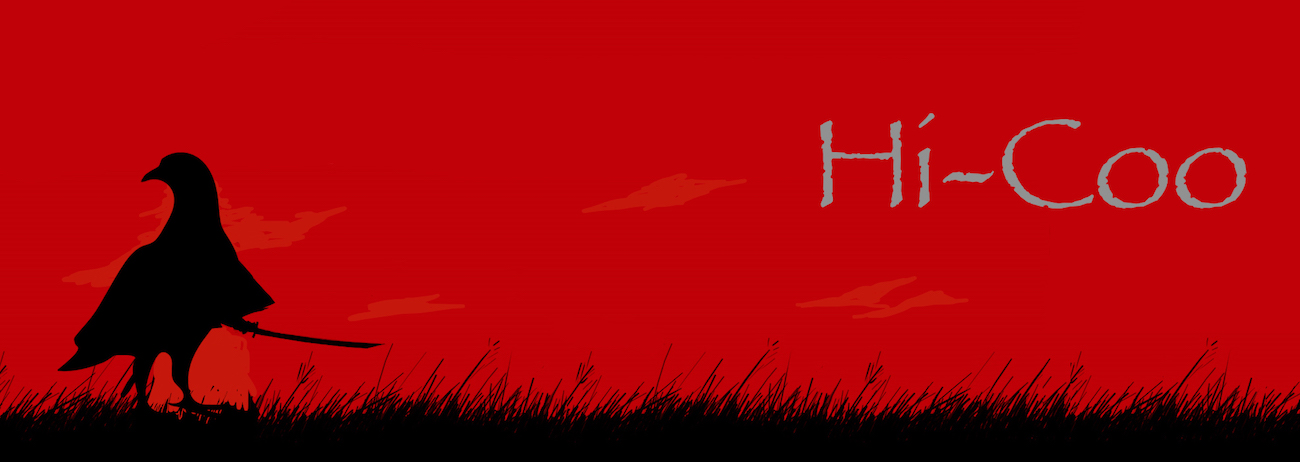
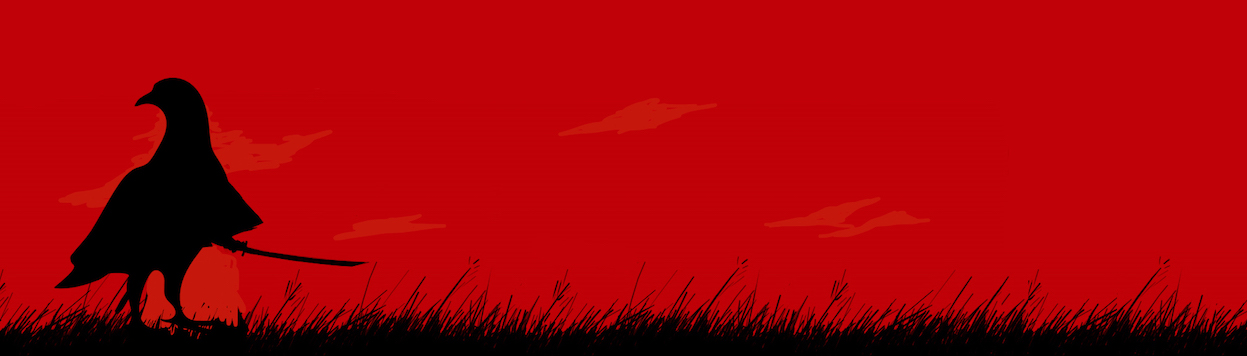
Splash page title adjustments

diff --git a/app/assets/stylesheets/application.scss b/app/assets/stylesheets/application.scss
@@ -34,6 +34,23 @@
 
 }
 
+.splash-header {
+  background-image: url('red-hicoo.jpg');
+  background-size: cover;
+  min-height: 350px;
+  margin-top: .25%;
+  margin-left: -6%;
+  margin-right: -6%;
+  h1 {
+    font-family: 'Ceviche One', cursive;
+    color: #c9c9c9;
+    font-size: 10em;
+    padding-top: 2%;
+    float: right;
+    padding-right: 8%;
+  }
+}
+
 .main-page-post-header{
   background-color: #e0e0e0;
 

diff --git a/planning.md b/planning.md
@@ -40,6 +40,8 @@
 
 ## Appearance/Pages
 
+- [ ] change nav/banner for not logged in/splash path
+
 - [ ] add default for hi-quote
 
 - [x] embed twitter haiku feed on home page
